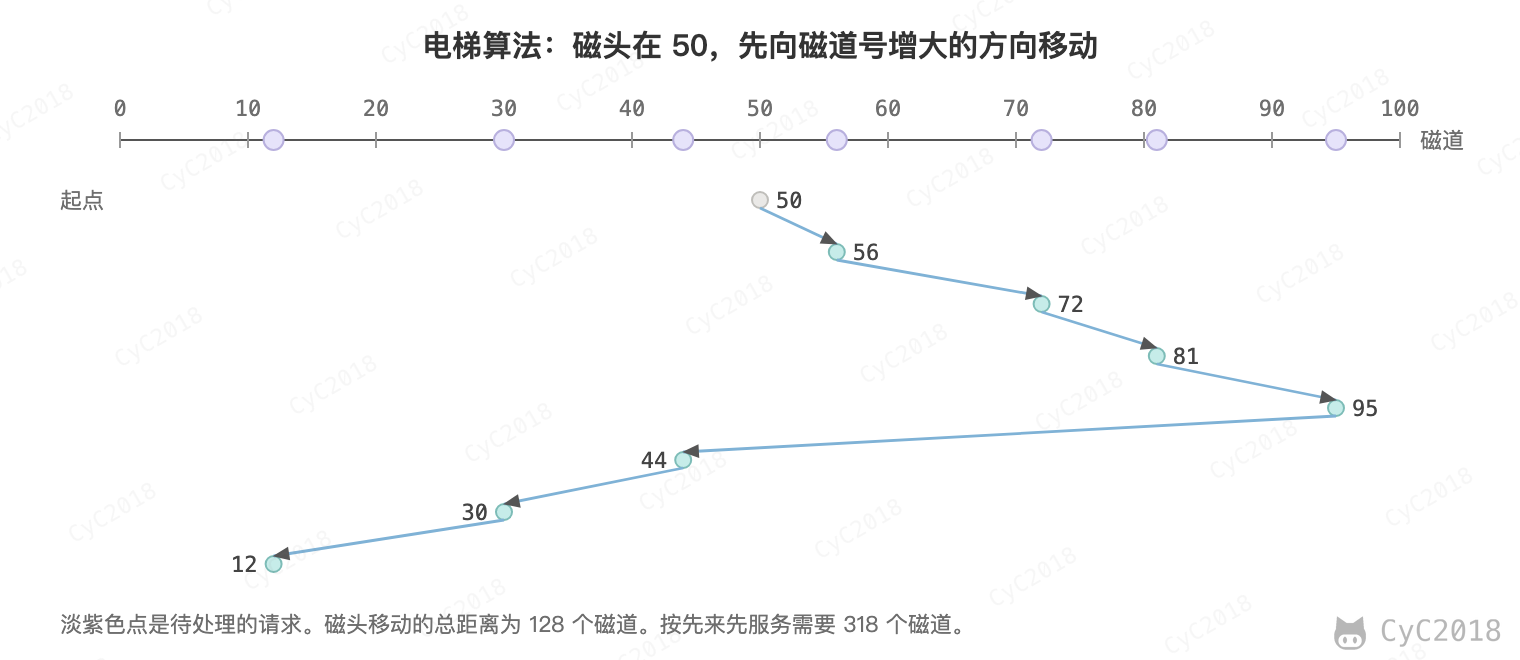
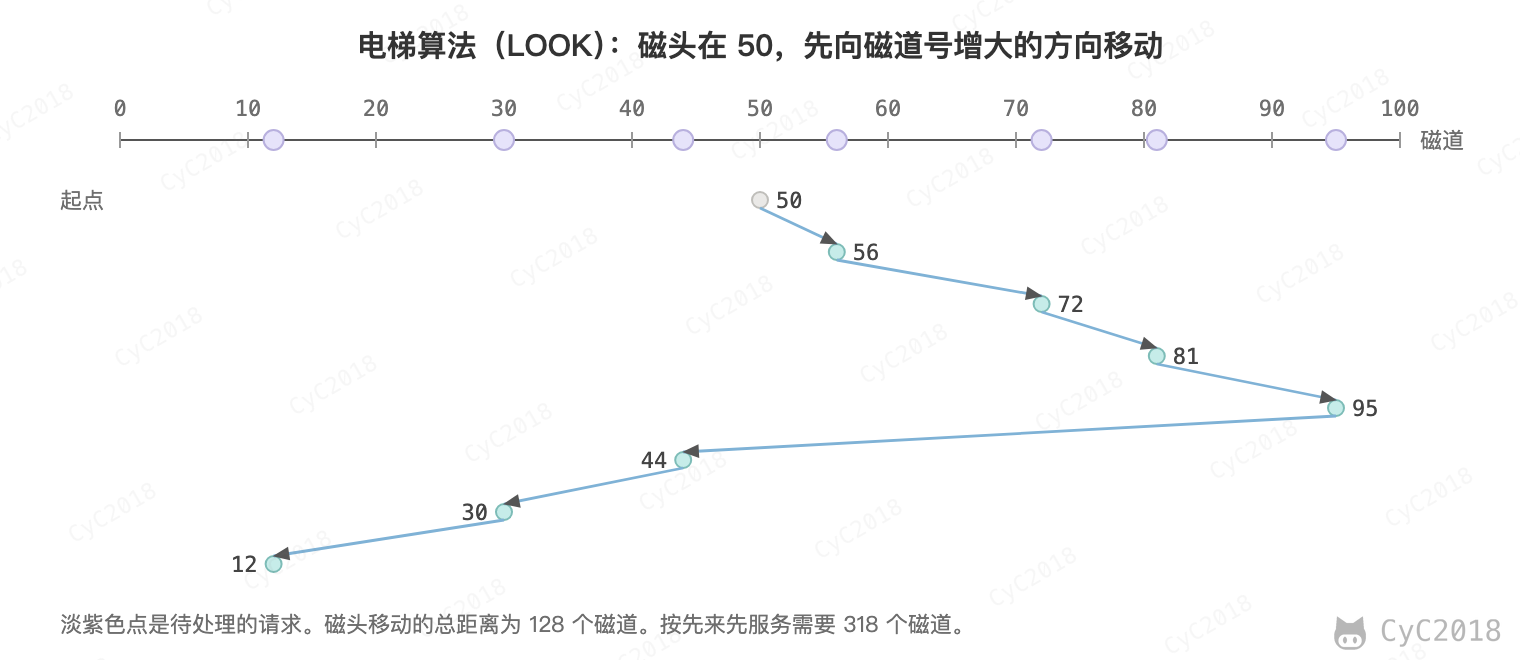
Update 计算机操作系统 - 设备管理.md
重新绘制磁盘结构与 SCAN 算法配图。调整磁盘物理结构说明，补充 FCFS、SSTF、SCAN 调度算法的移动距离示例与 LOOK 算法说明。

Changed region(s): [[0.2164, 0.0303, 0.773, 0.0909]]

diff --git a/notes/计算机操作系统 - 设备管理.md b/notes/计算机操作系统 - 设备管理.md
@@ -12,40 +12,36 @@
 
 ## 磁盘结构
 
-- 盘面（Platter）：一个磁盘有多个盘面；
+- 盘片（Platter）：一个磁盘有一张或多张盘片，每张盘片的两面都能存储数据，每一面称为一个盘面；
 - 磁道（Track）：盘面上的圆形带状区域，一个盘面可以有多个磁道；
-- 扇区（Track Sector）：磁道上的一个弧段，一个磁道可以有多个扇区，它是最小的物理储存单位，目前主要有 512 bytes 与 4 K 两种大小；
+- 扇区（Sector）：磁道上的一个弧段，一个磁道可以有多个扇区，它是最小的物理储存单位，目前主要有 512 字节与 4 KB 两种大小；
 - 磁头（Head）：与盘面非常接近，能够将盘面上的磁场转换为电信号（读），或者将电信号转换为盘面的磁场（写）；
 - 磁臂（Actuator arm）：用于在磁道之间移动磁头；
-- 主轴（Spindle）：使整个盘面转动。
+- 主轴（Spindle）：带动所有盘片一起转动。
 
 <div align="center"> <img src="pics/disk-structure.png" width="760px"/> </div><br>
 
 ## 磁盘调度算法
 
-下面的例子中，磁头当前位于 50 号磁道，按到达顺序有 72、30、95、56、12、81、44 七个请求。先来先服务按这个顺序移动，共移动 318 个磁道。
-
 读写一个磁盘块的时间的影响因素有：
 
-- 旋转时间（主轴转动盘面，使得磁头移动到适当的扇区上）
-- 寻道时间（磁臂移动，使得磁头移动到适当的磁道上）
-- 实际的数据传输时间
+- 旋转时间：主轴转动盘面，使目标扇区转到磁头下方；
+- 寻道时间：磁臂移动，使得磁头移动到适当的磁道上；
+- 实际的数据传输时间。
 
-其中，寻道时间最长，因此磁盘调度的主要目标是使磁盘的平均寻道时间最短。
+其中，寻道时间通常最长，因此磁盘调度的主要目标是使磁盘的平均寻道时间最短。固态硬盘没有磁头和寻道，这些调度算法针对的是机械硬盘。
+
+下面的例子中，磁头当前位于 50 号磁道，按到达顺序有 72、30、95、56、12、81、44 七个请求，比较三种算法下磁头移动的总距离。
 
 ### 1. 先来先服务
 
-> FCFS, First Come First Served
+先来先服务（First Come First Served, FCFS）按照磁盘请求到达的顺序进行调度。例子中磁头依次移动到 72、30、95、56、12、81、44，共移动 318 个磁道。
 
-按照磁盘请求的顺序进行调度。
-
-优点是公平和简单。缺点也很明显，因为未对寻道做任何优化，使平均寻道时间可能较长。
+优点是公平和简单。缺点也很明显，因为未对寻道做任何优化，平均寻道时间可能较长。
 
 ### 2. 最短寻道时间优先
 
-> SSTF, Shortest Seek Time First
-
-优先调度与当前磁头所在磁道距离最近的磁道。
+最短寻道时间优先（Shortest Seek Time First, SSTF）优先调度与当前磁头所在磁道距离最近的请求。例子中 44 和 56 与 50 的距离都是 6，先选 44 时磁头依次移动到 44、56、72、81、95、30、12，共移动 140 个磁道。
 
 虽然平均寻道时间比较低，但是不够公平。如果新到达的磁道请求总是比一个在等待的磁道请求近，那么在等待的磁道请求会一直等待下去，也就是出现饥饿现象。具体来说，两端的磁道请求更容易出现饥饿现象。
 
@@ -53,11 +49,9 @@
 
 ### 3. 电梯算法
 
-> SCAN
+电梯算法（扫描算法，SCAN）和电梯的运行过程类似，总是按一个方向来进行磁盘调度，直到该方向上没有未完成的磁盘请求，然后改变方向。严格的 SCAN 要先移动到磁盘的一端再掉头，到达该方向上最后一个请求就掉头的做法称为 LOOK。
 
-电梯总是保持一个方向运行，直到该方向没有请求为止，然后改变运行方向。
-
-电梯算法（扫描算法）和电梯的运行过程类似，总是按一个方向来进行磁盘调度，直到该方向上没有未完成的磁盘请求，然后改变方向。
+例子按 LOOK 计算：磁头先向磁道号增大的方向依次移动到 56、72、81、95，再掉头移动到 44、30、12，共移动 45 + 83 = 128 个磁道。假设磁道号为 0～99，SCAN 要先走到 99 再掉头，共移动 49 + 87 = 136 个磁道。
 
 因为考虑了移动方向，因此所有的磁盘请求都会被满足，解决了 SSTF 的饥饿问题。
 
